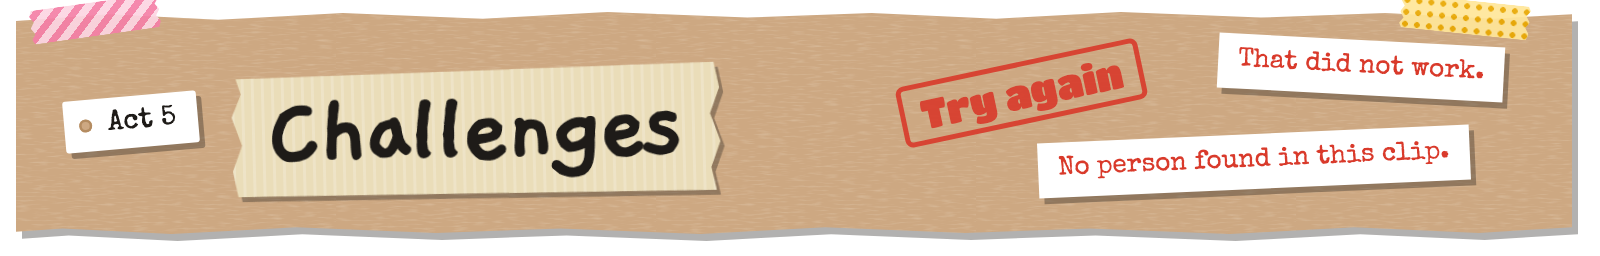
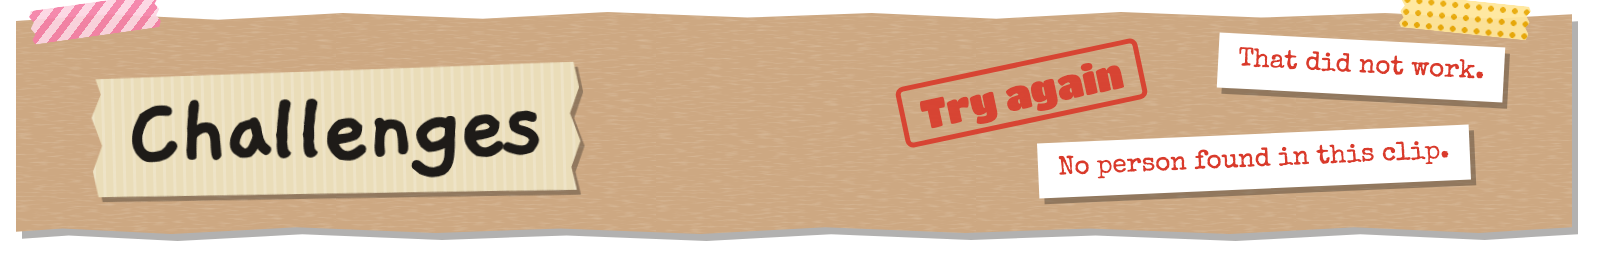
Devpost kit: the look agent's rules (no eyebrow labels, no rule of three, die-cut on every jester still, yellow number stickers) and no blur, glow or off-token shadows

Changed region(s): [[0.0312, 0.2188, 0.4688, 0.8125]]

diff --git a/app/public/devpost/preview.html b/app/public/devpost/preview.html
@@ -47,14 +47,14 @@
   <div class="gallery">Gallery: the demo video first, then six screenshots (docs/devpost/checklist.md).</div>
   <article class="story">
 <p class="pic"><img src="hero.png" alt="Jester: act out any clip, get judged"></p>
-<p><strong>Jester turns a short clip into a party game.</strong> Each player secretly gets one part of the clip, say the thrower, the dog or the ball, and copies it on the webcam from nothing but a stick figure or an outline. Then the real clip plays back with everyone's cutouts on top, the scores come out, and a jester crowns the winner.</p>
+<p><strong>Jester turns a short clip into a party game.</strong> Each player secretly gets one part of the clip, maybe the thrower or maybe the dog, and copies it on the webcam from nothing but a stick figure or an outline. Then the real clip plays back with everyone's cutouts on top, and a jester crowns the winner.</p>
 <p class="pic"><img src="heading-inspiration.png" alt="Inspiration"></p>
 <p>Webcam games where you copy a dancer are a known genre. When we looked, we found more than ten from past hackathons, three of which placed. <mark title="Aaron: confirm or remove before pasting">[check]</mark></p>
 <p>They all share one limit: someone has to make every level by hand. We wanted the opposite. Drop in a short clip of anyone moving, and it becomes a level, with no one drawing it. Our one line for it: <strong>any video is now a game.</strong></p>
 <p>The second idea came from party games. What if nobody knows what they are copying until the end? You copy a stick figure, sure you are the dancer, and the reveal shows you were the dog. <mark title="Aaron: confirm or remove before pasting">[check]</mark></p>
 <p>And one honest line about who it is for: it gets a group of friends moving around one laptop, with no equipment beyond a webcam.</p>
 <p class="pic"><img src="heading-what.png" alt="What it does"></p>
-<ul><li><strong>Pick a clip</strong> from the video bank, or press Surprise me, and pick a mode: <strong>Blind</strong>, where nobody sees the clip until the end, or <strong>Watch first</strong>. <mark title="Aaron: confirm or remove before pasting">[check: which clips are in the live bank]</mark></li><li><strong>2 to 4 players</strong> type their names, and Jester deals each one a <strong>secret part</strong> of the clip: a person in it, or a thing like a dog or a ball. <mark title="Aaron: confirm or remove before pasting">[check: the live bank has clips with things in them]</mark></li><li><strong>Pass the laptop.</strong> &quot;Everyone else, look away.&quot; Each player sees only their part, drawn as a stick figure (a person) or an outline (a thing). They choose to copy it with their whole body, a hand, their head or a foot, and can watch it once before it counts.</li><li><strong>3, 2, 1, copy.</strong> The part plays on the left, the player's camera on the right. The clip can be slowed to 0.75 or 0.5 speed.</li><li><strong>The reveal.</strong> After a drum roll, the original clip plays, then plays again with every player's cutout drawn on their part, with names and scores. It is recorded in the browser as a video you can save or send.</li><li><strong>The crown.</strong> Each player's face goes on a jester, a spotlight sweeps across them, and the winner gets crowned.</li><li><strong>Play with friends online.</strong> Make a room or join one with its 4-letter code. Each player plays their own part on their own device, and everyone gets the same reveal and results. Online rounds use our two built-in clips for now. <mark title="Aaron: confirm or remove before pasting">[check: tried between two devices]</mark></li><li><strong>Submit your own clip.</strong> It goes into a review queue, and a person checks every clip before it joins the bank.</li></ul>
+<ul><li><strong>Pick a clip</strong> from the video bank, or press Surprise me, and pick a mode: <strong>Blind</strong>, where nobody sees the clip until the end, or <strong>Watch first</strong>. <mark title="Aaron: confirm or remove before pasting">[check: which clips are in the live bank]</mark></li><li><strong>2 to 4 players</strong> type their names, and Jester deals each one a <strong>secret part</strong> of the clip: a person in it, or a thing like a dog or a ball. <mark title="Aaron: confirm or remove before pasting">[check: the live bank has clips with things in them]</mark></li><li><strong>Pass the laptop.</strong> &quot;Everyone else, look away.&quot; Each player sees only their part, drawn as a stick figure (a person) or an outline (a thing). They choose to copy it with their whole body, a hand, their head or a foot, and can watch it once before it counts.</li><li><strong>3, 2, 1, copy.</strong> The part plays on the left, the player's camera on the right. The clip can be slowed to 0.75 or 0.5 speed.</li><li><strong>The reveal.</strong> After a drum roll, the original clip plays, then plays again with every player's cutout drawn on their part, with names and scores. It is recorded in the browser as a video you can save or send.</li><li><strong>The crown.</strong> Each player's face goes on a jester, and the spotlight settles on the winner.</li><li><strong>Play with friends online.</strong> Make a room or join one with its 4-letter code. Each player plays their own part on their own device, and everyone gets the same reveal and results. Online rounds use our two built-in clips for now. <mark title="Aaron: confirm or remove before pasting">[check: tried between two devices]</mark></li><li><strong>Submit your own clip.</strong> It goes into a review queue, and a person checks every clip before it joins the bank.</li></ul>
 <p class="pic"><img src="diagram-round.png" alt="How a round runs, from picking a clip to the crown"></p>
 <p>Online, each player is on their own device, so step 3 is skipped.</p>
 <p class="pic"><img src="heading-how.png" alt="How we built it"></p>
@@ -78,7 +78,7 @@
 <p class="pic"><img src="heading-wins.png" alt="Accomplishments"></p>
 <ul><li>A clip nobody prepared becomes a playable level in the browser. No server ever analyses video.</li><li>Things count, not just people: a dog or a ball can be your secret part.</li><li>The reveal puts everyone's cutout on the original clip and records it to a video you can send.</li><li>249 automated tests pass: 104 on the clip side, 71 in the engine, 66 in our first prototype and rooms, and 8 in the evaluation tools.</li><li>A jester host of our own, from a Blender script, who wears each player's face at the crown.</li></ul>
 <p class="pic"><img src="heading-learned.png" alt="What we learned"></p>
-<ul><li><strong>Measure with code, decide with rules.</strong> Every number in a guide comes from the tracker, so a score can be explained.</li><li><strong>Repeatable takes design.</strong> It took fixed decode times, a fingerprint and a saved analysis, not luck.</li><li><strong>Compare directions, not positions.</strong> It makes size and distance from the camera disappear.</li><li><strong>Agree on the data first.</strong> One shared pose format, settled early, let three people build three parts at the same time. <mark title="Aaron: confirm or remove before pasting">[check]</mark></li></ul>
+<ul><li><strong>Measure with code, decide with rules.</strong> Every number in a guide comes from the tracker, so a score can be explained.</li><li><strong>Repeatable takes design.</strong> It took decoding at fixed times and saving the analysis under the file's fingerprint.</li><li><strong>Compare directions, not positions.</strong> It makes size and distance from the camera disappear.</li><li><strong>Agree on the data first.</strong> One shared pose format, settled early, let three people build three parts at the same time. <mark title="Aaron: confirm or remove before pasting">[check]</mark></li></ul>
 <p class="pic"><img src="heading-next.png" alt="What's next"></p>
 <ul><li><strong>An AI check for new clips.</strong> One vision model call per clip would name it, pick the main subject and word the refusals. It is designed, not built.</li><li><strong>Paste a link instead of a file.</strong> Grabbing a YouTube or Instagram clip from a browser tab already works on our lab page, but not yet in the game.</li><li><strong>Any clip online.</strong> Online rounds use our two built-in clips today; next is any clip from the bank.</li><li><strong>Duels.</strong> Head-to-head rounds, best of several, are built on a lab page, not yet in the game.</li><li><strong>A bigger bank,</strong> filled by players through Submit your own.</li></ul>
 <h2>Links</h2>

diff --git a/art/devpost/heading.html b/art/devpost/heading.html
@@ -8,9 +8,7 @@
   /* 1600 by 256. One section per render: heading.html?s=inspiration and so on (the list is below). */
   body { width: 1600px; height: 256px; }
   .sheet { left: 16px; right: 28px; top: 12px; bottom: 22px; }
-  .row { position: absolute; inset: 0; display: flex; align-items: center; gap: 34px; padding-left: 64px; }
-  .act { rotate: -5deg; translate: 0 -6px; }
-  .act .tag { font-size: 28px; }
+  .row { position: absolute; inset: 0; display: flex; align-items: center; gap: 34px; padding-left: 92px; }
   .masking { translate: 0 4px; }
   .prop { position: absolute; top: 0; bottom: 0; right: 0; width: 640px; }
   .prop .note { white-space: nowrap; }
@@ -58,57 +56,55 @@
 
   /* What's next: a ticket for the next show. */
   .s-next .ticket-wrap { position: absolute; right: 80px; top: 50px; rotate: 3deg; }
-  .s-next .ticket { width: 470px; height: 130px; padding: 0 120px 0 44px; font: 400 40px/1.05 var(--type); }
-  .s-next .ticket small { display: block; font-size: 20px; margin-bottom: 6px; }
-  .s-next .ticket .stub { right: 22px; width: 82px; }
+  .s-next .ticket { width: 470px; height: 130px; padding: 0 130px 0 48px; font: 400 44px/1.05 var(--type); }
+  .s-next .ticket .stub { right: 18px; width: 96px; background-position: center 30%; background-size: 60px auto; }
+  .s-next .ticket .stub b { position: absolute; left: 0; right: 0; bottom: 8px; text-align: center; font: 400 16px/1 var(--type); }
 </style>
 </head>
 <body>
 <div class="sheet"><div class="kraft"></div></div>
 <i class="washi w1"></i><i class="washi w2"></i>
 <div class="row">
-  <div class="act"><span class="tag" id="act"></span></div>
   <div class="masking"><h1 class="tape" id="title"></h1></div>
 </div>
 <div class="prop" id="prop"></div>
 <script>
-  // Each section: the act number, the heading, a washi pair, and its own prop on the right.
+  // Each section: the heading, a washi pair, and its own prop on the right.
   const SECTIONS = {
-    inspiration: { act: "Act 1", title: "Inspiration", tapes: ["w-pink", "w-dots"], prop: `
+    inspiration: { title: "Inspiration", tapes: ["w-pink", "w-dots"], prop: `
       <div class="scrap note-wrap"><p class="note">what if any clip<br>was a level?</p></div>
       <div class="snap photo"><i class="washi w-mint"></i><div class="mystery"><b>?</b></div></div>` },
-    what: { act: "Act 2", title: "What it does", tapes: ["w-mint", "w-pink"], prop: `
+    what: { title: "What it does", tapes: ["w-mint", "w-pink"], prop: `
       <div class="scrap note-wrap"><p class="note">Copy me.<br>I'm watching.</p></div>
       <div class="puppet"><span class="stick"></span><img src="../../app/public/look/jester/classic-still.webp" alt="" /></div>` },
-    how: { act: "Act 3", title: "How we built it", tapes: ["w-dots", "w-mint"], prop: `
+    how: { title: "How we built it", tapes: ["w-dots", "w-mint"], prop: `
       <div class="parts">
         <span class="tag" style="font-size:26px"><i class="dot" style="--c:var(--p3)"></i>the clip side</span>
         <span class="tag" style="font-size:26px"><i class="dot" style="--c:var(--p1)"></i>the player side</span>
         <span class="tag" style="font-size:26px"><i class="dot" style="--c:var(--p2)"></i>the scoring engine</span>
       </div>` },
-    stack: { act: "Act 4", title: "Tech stack", tapes: ["w-pink", "w-mint"], prop: `
+    stack: { title: "Tech stack", tapes: ["w-pink", "w-mint"], prop: `
       <div class="pile">
         <span class="tag" style="left:250px;top:8px;rotate:4deg">MediaPipe</span>
         <span class="tag" style="left:30px;top:30px;rotate:-5deg">TypeScript</span>
         <span class="tag" style="left:120px;top:110px;rotate:2deg">WebCodecs</span>
         <span class="tag" style="left:340px;top:100px;rotate:-3deg">Supabase</span>
       </div>` },
-    challenges: { act: "Act 5", title: "Challenges", tapes: ["w-pink", "w-dots"], prop: `
+    challenges: { title: "Challenges", tapes: ["w-pink", "w-dots"], prop: `
       <span class="stampmark">Try again</span>
       <span class="problem p1">That did not work.</span>
       <span class="problem p2">No person found in this clip.</span>` },
-    wins: { act: "Act 6", title: "Accomplishments", tapes: ["w-dots", "w-pink"], prop: `
+    wins: { title: "Accomplishments", tapes: ["w-dots", "w-pink"], prop: `
       <span class="star"><i></i></span>
       <span class="score big-sticker">100%</span>` },
-    learned: { act: "Act 7", title: "What we learned", tapes: ["w-mint", "w-dots"], prop: `
+    learned: { title: "What we learned", tapes: ["w-mint", "w-dots"], prop: `
       <div class="scrap note-wrap"><p class="note">Same clip in,<br>same guide out.</p></div>` },
-    next: { act: "Act 8", title: "What's next", tapes: ["w-mint", "w-pink"], prop: `
-      <div class="ticket-wrap"><div class="ticket"><span><small>Admit one</small>Next show</span><i class="stub"></i></div></div>` },
+    next: { title: "What's next", tapes: ["w-mint", "w-pink"], prop: `
+      <div class="ticket-wrap"><div class="ticket"><span>Next show</span><i class="stub"><b>Admit one</b></i></div></div>` },
   };
   const key = new URLSearchParams(location.search).get("s") || "inspiration";
   const s = SECTIONS[key];
   document.body.classList.add(`s-${key}`);
-  document.getElementById("act").textContent = s.act;
   document.getElementById("title").textContent = s.title;
   document.title = s.title;
   document.querySelector(".w1").classList.add(s.tapes[0]);

diff --git a/art/devpost/diagram-round.html b/art/devpost/diagram-round.html
@@ -15,23 +15,21 @@
   .card .art { height: 150px; }
   .sil { position: absolute; color: var(--paper); }
   .sil svg { display: block; width: 100%; height: 100%; overflow: visible; }
-  .mini { position: absolute; width: 30%; padding: 5px 5px 8px; background: var(--photo); box-shadow: 3px 4px 0 rgba(0,0,0,.35); }
+  .mini { position: absolute; width: 30%; padding: 5px 5px 8px; background: var(--photo); box-shadow: 3px 4px 0 var(--shade); }
   .mini i { display: grid; place-items: center; aspect-ratio: 16 / 10; background: var(--backdrop) repeating-linear-gradient(-35deg, transparent 0 6px, rgba(255,255,255,.08) 6px 7px); font: 400 28px/1 var(--sticker); font-style: normal; color: var(--ticket); -webkit-text-stroke: 3px var(--ink); paint-order: stroke fill; }
   .chips { position: absolute; display: flex; gap: 8px; }
-  .chips span { padding: 4px 10px; background: var(--photo); font: 400 16px/1.2 var(--type); box-shadow: 2px 3px 0 rgba(0,0,0,.35); white-space: nowrap; }
-  .chips span.on { background: var(--ticket); box-shadow: 2px 3px 0 rgba(0,0,0,.35), inset 0 0 0 2px var(--ink); }
-  .who { position: absolute; left: 14px; right: 14px; display: flex; align-items: center; gap: 10px; padding: 5px 12px; background: var(--photo); font: 400 18px/1.2 var(--type); box-shadow: 3px 4px 0 rgba(0,0,0,.35); }
+  .chips span { padding: 4px 10px; background: var(--photo); font: 400 16px/1.2 var(--type); box-shadow: 2px 3px 0 var(--shade); white-space: nowrap; }
+  .chips span.on { background: var(--ticket); box-shadow: 2px 3px 0 var(--shade), inset 0 0 0 2px var(--ink); }
+  .who { position: absolute; left: 14px; right: 14px; display: flex; align-items: center; gap: 10px; padding: 5px 12px; background: var(--photo); font: 400 18px/1.2 var(--type); box-shadow: 3px 4px 0 var(--shade); }
   .who i { width: 16px; height: 16px; border-radius: 50%; background: var(--c); box-shadow: 0 0 0 2px var(--ink); }
   .who b { margin-left: auto; font: 400 20px/1 var(--sticker); }
   .name-big { position: absolute; left: 0; right: 0; top: 18px; text-align: center; font: 400 74px/1 var(--sticker); }
   .look-away { position: absolute; left: 0; right: 0; bottom: 14px; text-align: center; font: 700 26px/1 var(--hand); color: var(--photo); letter-spacing: -.03em; }
   .count { position: absolute; left: 50%; top: 50%; translate: -50% -50%; font: 400 92px/1 var(--sticker); color: var(--stamp); -webkit-text-stroke: 6px var(--ink); paint-order: stroke fill; filter: url(#die-cut); rotate: -4deg; }
   .split::after { content: ""; position: absolute; top: 0; bottom: 0; left: calc(50% - 1px); width: 2px; background: rgba(255,255,255,.3); }
-  .blur { position: absolute; border-radius: 50%; background: rgba(255, 255, 255, .28); filter: blur(10px); }
-  .score-tag { position: absolute; padding: 2px 8px; background: var(--photo); font: 400 15px/1.3 var(--type); white-space: nowrap; box-shadow: 2px 3px 0 rgba(0,0,0,.35); }
-  .spot { position: absolute; inset: 0; background: radial-gradient(ellipse 34% 70% at 50% 62%, rgba(255, 244, 200, .32) 0 60%, rgba(10, 12, 30, .55) 100%); }
+  .score-tag { position: absolute; padding: 2px 8px; background: var(--photo); font: 400 15px/1.3 var(--type); white-space: nowrap; box-shadow: 2px 3px 0 var(--shade); }
   .crown-j { position: absolute; top: -14px; width: 150px; left: calc(50% - 75px); filter: url(#sticker); }
-  .side-j { position: absolute; top: 34px; width: 104px; opacity: .8; }
+  .side-j { position: absolute; top: 34px; width: 104px; filter: url(#sticker); }
   .foot { position: relative; margin-top: 44px; display: flex; justify-content: space-between; align-items: center; }
   .foot .note { white-space: nowrap; }
   
@@ -82,7 +80,7 @@
   <div class="sheet"><div class="kraft"></div></div>
   <div class="head">
     <div class="masking"><h1 class="tape">How a round runs</h1></div>
-    <p class="typed">One laptop, one webcam, 2 to 4 players.</p>
+    <p class="typed">2 to 4 players on one laptop with a webcam.</p>
   </div>
 
   <div class="cards">
@@ -161,7 +159,6 @@
       <span class="num" style="--c:var(--p1)">7</span><i class="washi w-dots"></i>
       <h2>The reveal</h2>
       <div class="art">
-        <span class="blur" style="left:6%;top:10%;width:30%;height:84%"></span>
         <span class="sil" style="left:10%;top:16%;width:20%;height:80%;color:var(--p1)"><svg><use href="#throw" /></svg></span>
         <span class="sil" style="left:44%;top:4%;width:18%;height:38%;color:var(--p3)"><svg><use href="#tuck" /></svg></span>
         <span class="sil" style="left:56%;top:48%;width:38%;height:46%;color:var(--p4)"><svg><use href="#crawl" /></svg></span>
@@ -177,10 +174,9 @@
       <div class="art" style="background:var(--backdrop) linear-gradient(transparent 78%, #93613A 78%)">
         <img class="side-j" style="left:2%" src="../../app/public/look/jester/alex-still.webp" alt="" />
         <img class="side-j" style="right:2%" src="../../app/public/look/jester/lisa-still.webp" alt="" />
-        <span class="spot"></span>
         <img class="crown-j" src="../../app/public/look/jester/aaron-still.webp" alt="" />
       </div>
-      <p>Faces on jesters, a spotlight, one winner.</p>
+      <p>Each player's face on a jester, and the spotlight finds the winner.</p>
     </section>
   </div>
 

diff --git a/art/devpost/track.html b/art/devpost/track.html
@@ -5,8 +5,8 @@
 <title>Devpost track banner</title>
 <link rel="stylesheet" href="devpost.css" />
 <style>
-  /* 1600 by 300. One admission ticket per track: track.html?name=Entertainment&kicker=Main%20track&line=...
-     Sponsor names go in as plain text (kicker or line), never as logos. */
+  /* 1600 by 300. One admission ticket per track: track.html?name=Entertainment&line=...
+     Sponsor names go in the line as plain text, never as logos. No label above the name. */
   body { width: 1600px; height: 300px; }
   .sheet { left: 16px; right: 28px; top: 12px; bottom: 22px; }
   .w1 { left: 70px; top: 18px; rotate: -10deg; }
@@ -16,9 +16,8 @@
   .ticket .stub { right: 30px; width: 170px; background-size: 96px auto; }
   .ticket .stub b { position: absolute; left: 0; right: 0; bottom: 14px; text-align: center; font: 400 20px/1 var(--type); }
   .words { display: grid; gap: 4px; min-width: 0; }
-  .kicker { font: 400 30px/1 var(--type); }
-  .name { margin: 0; font: 400 96px/1 var(--sticker); padding: 2px 6px 10px; white-space: nowrap; }
-  .line { font: 400 24px/1.2 var(--type); }
+  .name { margin: 0; font: 400 104px/1 var(--sticker); padding: 2px 6px 12px; white-space: nowrap; }
+  .line { font: 400 30px/1.2 var(--type); }
   .puppet { right: 52px; top: 6px; width: 262px; height: 262px; rotate: 4deg; }
   .puppet .stick { top: 196px; }
 </style>
@@ -27,9 +26,8 @@
 <div class="sheet"><div class="kraft"></div></div>
 <div class="ticket-wrap"><div class="ticket">
   <div class="words">
-    <span class="kicker" data-param="kicker">Main track</span>
     <h1 class="name"><span data-letters="Entertainment" data-param="name"></span></h1>
-    <span class="line" data-param="line">HackPrinceton Fall 2026</span>
+    <span class="line" data-param="line">Our main track at HackPrinceton Fall 2026</span>
   </div>
   <i class="stub"><b>Admit one</b></i>
 </div></div>
@@ -40,7 +38,7 @@
   // Long track names shrink until they fit the ticket.
   const name = document.querySelector(".name");
   const room = document.querySelector(".words").clientWidth;
-  let size = 96;
+  let size = 104;
   while (name.scrollWidth > room && size > 48) name.style.fontSize = `${(size -= 4)}px`;
   document.title = `Track: ${name.textContent}`;
 </script>

diff --git a/art/devpost/diagram-guide.html b/art/devpost/diagram-guide.html
@@ -13,7 +13,7 @@
   .sil { position: absolute; color: var(--paper); }
   .sil svg, .art svg.full { display: block; width: 100%; height: 100%; overflow: visible; }
   .ring { filter: url(#ring); }
-  .hash { position: absolute; left: 16px; bottom: 12px; padding: 6px 12px; background: var(--photo); font: 400 19px/1 var(--type); rotate: -2deg; box-shadow: 3px 4px 0 rgba(0,0,0,.35); }
+  .hash { position: absolute; left: 16px; bottom: 12px; padding: 6px 12px; background: var(--photo); font: 400 19px/1 var(--type); rotate: -2deg; box-shadow: 3px 4px 0 var(--shade); }
   .saved { position: absolute; right: 14px; top: 14px; rotate: 8deg; padding: 4px 12px 2px; border: 4px solid var(--ticket); border-radius: 6px; color: var(--ticket); font: 400 24px/1 var(--sticker); }
   /* Film strip */
   .strip { position: absolute; inset: 18px 0; background: #16161D; display: flex; gap: 10px; padding: 22px 12px; }
@@ -27,7 +27,7 @@
   .cut { position: absolute; top: 6px; bottom: 6px; width: 0; border-left: 5px dashed var(--stamp); }
   .cut b { position: absolute; top: 4px; left: 8px; color: var(--photo); background: var(--stamp); padding: 2px 8px; font: 400 17px/1.3 var(--type); }
   .rank { position: absolute; inset: 16px 18px; display: grid; gap: 10px; align-content: center; }
-  .rank span { display: flex; align-items: center; gap: 10px; padding: 6px 12px; background: var(--photo); font: 400 19px/1.2 var(--type); box-shadow: 3px 4px 0 rgba(0,0,0,.35); }
+  .rank span { display: flex; align-items: center; gap: 10px; padding: 6px 12px; background: var(--photo); font: 400 19px/1.2 var(--type); box-shadow: 3px 4px 0 var(--shade); }
   .rank span:nth-child(1) { background: var(--ticket); rotate: -1deg; }
   .rank span:nth-child(2) { rotate: 1deg; }
   .rank span.no { color: var(--stamp); text-decoration: line-through; text-decoration-thickness: 2px; rotate: -.5deg; }

diff --git a/art/devpost/devpost.css b/art/devpost/devpost.css
@@ -154,7 +154,7 @@ body { background: #FFFFFF; color: var(--ink); font: 400 22px/1.35 var(--type); 
 .card { position: relative; background: var(--photo); box-shadow: var(--lift); padding: 22px 24px 24px; display: grid; align-content: start; gap: 10px; }
 .card:nth-child(odd) { rotate: -.8deg; }
 .card:nth-child(even) { rotate: .8deg; }
-.card .num { position: absolute; top: -30px; left: -22px; font: 400 64px/1 var(--sticker); color: var(--c, var(--ticket)); -webkit-text-stroke: 5px var(--ink); paint-order: stroke fill; filter: url(#die-cut); rotate: -8deg; }
+.card .num { position: absolute; top: -30px; left: -22px; font: 400 64px/1 var(--sticker); color: var(--ticket); -webkit-text-stroke: 5px var(--ink); paint-order: stroke fill; filter: url(#die-cut); rotate: -8deg; }
 .card h2 { margin: 0 0 0 36px; font: 700 54px/1 var(--hand); letter-spacing: -.045em; }
 .card p { margin: 0; font: 400 30px/1.3 var(--type); }
 .card .art { position: relative; height: 170px; margin: 6px 0 4px; background: var(--backdrop); overflow: hidden; }

diff --git a/art/devpost/arrows.js b/art/devpost/arrows.js
@@ -17,8 +17,8 @@ function drawArrows(links) {
   for (const [from, to, side, label, dashed] of links) {
     const a = card(from), b = card(to);
     let x1, y1, x2, y2, bend;
-    if (side === "right") { x1 = a.r + 10; y1 = a.cy - 20; x2 = b.l - 14; y2 = b.cy - 10; bend = [0, -34]; }
-    if (side === "left") { x1 = a.l - 10; y1 = a.cy + 10; x2 = b.r + 14; y2 = b.cy + 20; bend = [0, 34]; }
+    if (side === "right") { x1 = a.r + 6; y1 = a.cy - 20; x2 = b.l - 8; y2 = b.cy - 10; bend = [0, -14]; }
+    if (side === "left") { x1 = a.l - 6; y1 = a.cy + 10; x2 = b.r + 8; y2 = b.cy + 20; bend = [0, 14]; }
     if (side === "down") { x1 = a.cx + 40; y1 = a.b + 12; x2 = b.cx + 40; y2 = b.t - 16; bend = [36, 0]; }
     if (side === "up") { x1 = a.cx - 60; y1 = a.t - 12; x2 = b.cx - 60; y2 = b.b + 16; bend = [-36, 0]; }
     const mx = (x1 + x2) / 2 + bend[0], my = (y1 + y2) / 2 + bend[1];

diff --git a/art/devpost/hero.html b/art/devpost/hero.html
@@ -82,8 +82,7 @@
   <div class="note-wrap"><p class="note">Act out any clip.<br>Get judged.</p></div>
   <div class="facts">
     <span class="tag">2 to 4 players</span>
-    <span class="tag">one laptop, one webcam</span>
-    <span class="tag">secret parts, one big reveal</span>
+    <span class="tag">a laptop with a webcam</span>
   </div>
 </div>
 

diff --git a/docs/devpost/story.md b/docs/devpost/story.md
@@ -1,6 +1,6 @@
 ![Jester: act out any clip, get judged](https://jester-pi.vercel.app/devpost/hero.png)
 
-**Jester turns a short clip into a party game.** Each player secretly gets one part of the clip, say the thrower, the dog or the ball, and copies it on the webcam from nothing but a stick figure or an outline. Then the real clip plays back with everyone's cutouts on top, the scores come out, and a jester crowns the winner.
+**Jester turns a short clip into a party game.** Each player secretly gets one part of the clip, maybe the thrower or maybe the dog, and copies it on the webcam from nothing but a stick figure or an outline. Then the real clip plays back with everyone's cutouts on top, and a jester crowns the winner.
 
 ![Inspiration](https://jester-pi.vercel.app/devpost/heading-inspiration.png)
 
@@ -19,7 +19,7 @@ And one honest line about who it is for: it gets a group of friends moving aroun
 - **Pass the laptop.** "Everyone else, look away." Each player sees only their part, drawn as a stick figure (a person) or an outline (a thing). They choose to copy it with their whole body, a hand, their head or a foot, and can watch it once before it counts.
 - **3, 2, 1, copy.** The part plays on the left, the player's camera on the right. The clip can be slowed to 0.75 or 0.5 speed.
 - **The reveal.** After a drum roll, the original clip plays, then plays again with every player's cutout drawn on their part, with names and scores. It is recorded in the browser as a video you can save or send.
-- **The crown.** Each player's face goes on a jester, a spotlight sweeps across them, and the winner gets crowned.
+- **The crown.** Each player's face goes on a jester, and the spotlight settles on the winner.
 - **Play with friends online.** Make a room or join one with its 4-letter code. Each player plays their own part on their own device, and everyone gets the same reveal and results. Online rounds use our two built-in clips for now. [check: tried between two devices]
 - **Submit your own clip.** It goes into a review queue, and a person checks every clip before it joins the bank.
 
@@ -108,7 +108,7 @@ Three parts, three owners, and one shared format agreed in the first hours: `pos
 ![What we learned](https://jester-pi.vercel.app/devpost/heading-learned.png)
 
 - **Measure with code, decide with rules.** Every number in a guide comes from the tracker, so a score can be explained.
-- **Repeatable takes design.** It took fixed decode times, a fingerprint and a saved analysis, not luck.
+- **Repeatable takes design.** It took decoding at fixed times and saving the analysis under the file's fingerprint.
 - **Compare directions, not positions.** It makes size and distance from the camera disappear.
 - **Agree on the data first.** One shared pose format, settled early, let three people build three parts at the same time. [check]
 

diff --git a/docs/devpost/checklist.md b/docs/devpost/checklist.md
@@ -77,7 +77,7 @@ Caption: "Copy it live. Your part on the left, you on the right."
 **6. The reveal.** The "Your cast" part of the reveal video, with everyone's cutouts on the real clip and their names and scores. If the clip has a dog or a ball, use the moment that shows who played it.
 Caption: "The reveal: everyone's cutout on the real clip. Surprise, you were the dog."
 
-Spare if one slot does not come out well: the crown, with each player's face on a jester and the spotlight on the winner. Caption: "The crown. One jester wins."
+Spare if one slot does not come out well: the crown, with each player's face on a jester and the spotlight on the winner. Caption: "The crown: the spotlight finds the winner."
 
 ## 4. Paste and check
 
@@ -105,7 +105,7 @@ Spare if one slot does not come out well: the crown, with each player's face on 
 
 ## Adding a track banner
 
-If a sponsor track is confirmed and its feature is in main: add one line to `TRACKS` in `art/devpost/render.mjs`, for example `{ slug: "gemini", name: "Gemini API", kicker: "Special track", line: "Sponsored by Google" }`, run the renderer (below), and add a section to the story after the Entertainment one: the banner image, a `###` heading and three or four bullets. Sponsor names are text only, no logos.
+If a sponsor track is confirmed and its feature is in main: add one line to `TRACKS` in `art/devpost/render.mjs`, for example `{ slug: "gemini", name: "Gemini API", line: "A special track sponsored by Google" }`, run the renderer (below), and add a section to the story after the Entertainment one: the banner image, a `###` heading and three or four bullets. Sponsor names are text only, no logos.
 
 ## Rendering the pictures again
 
